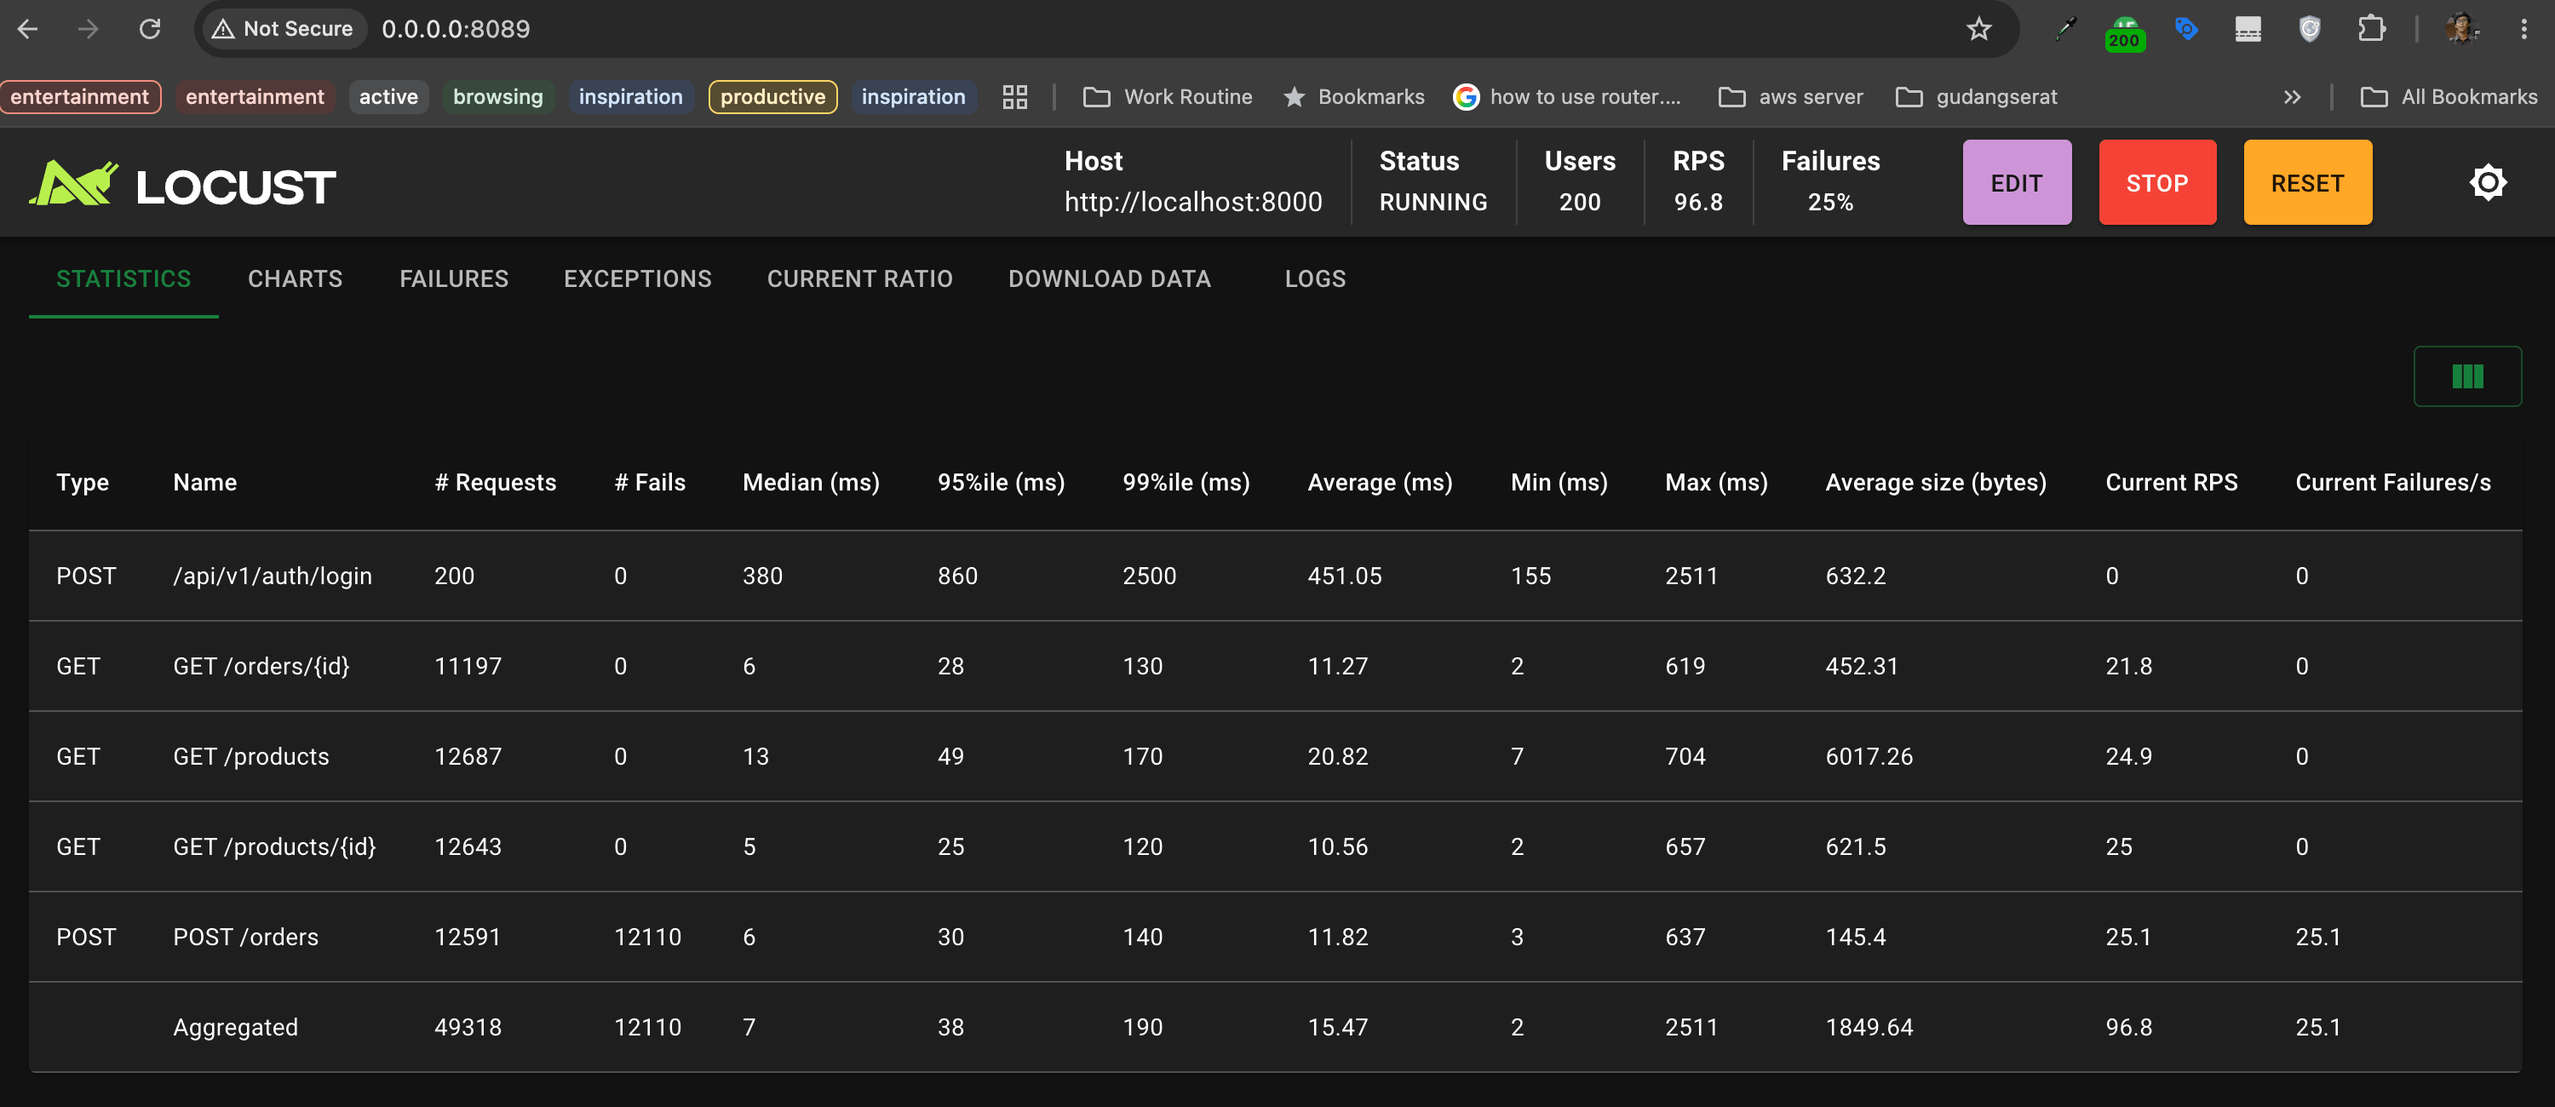
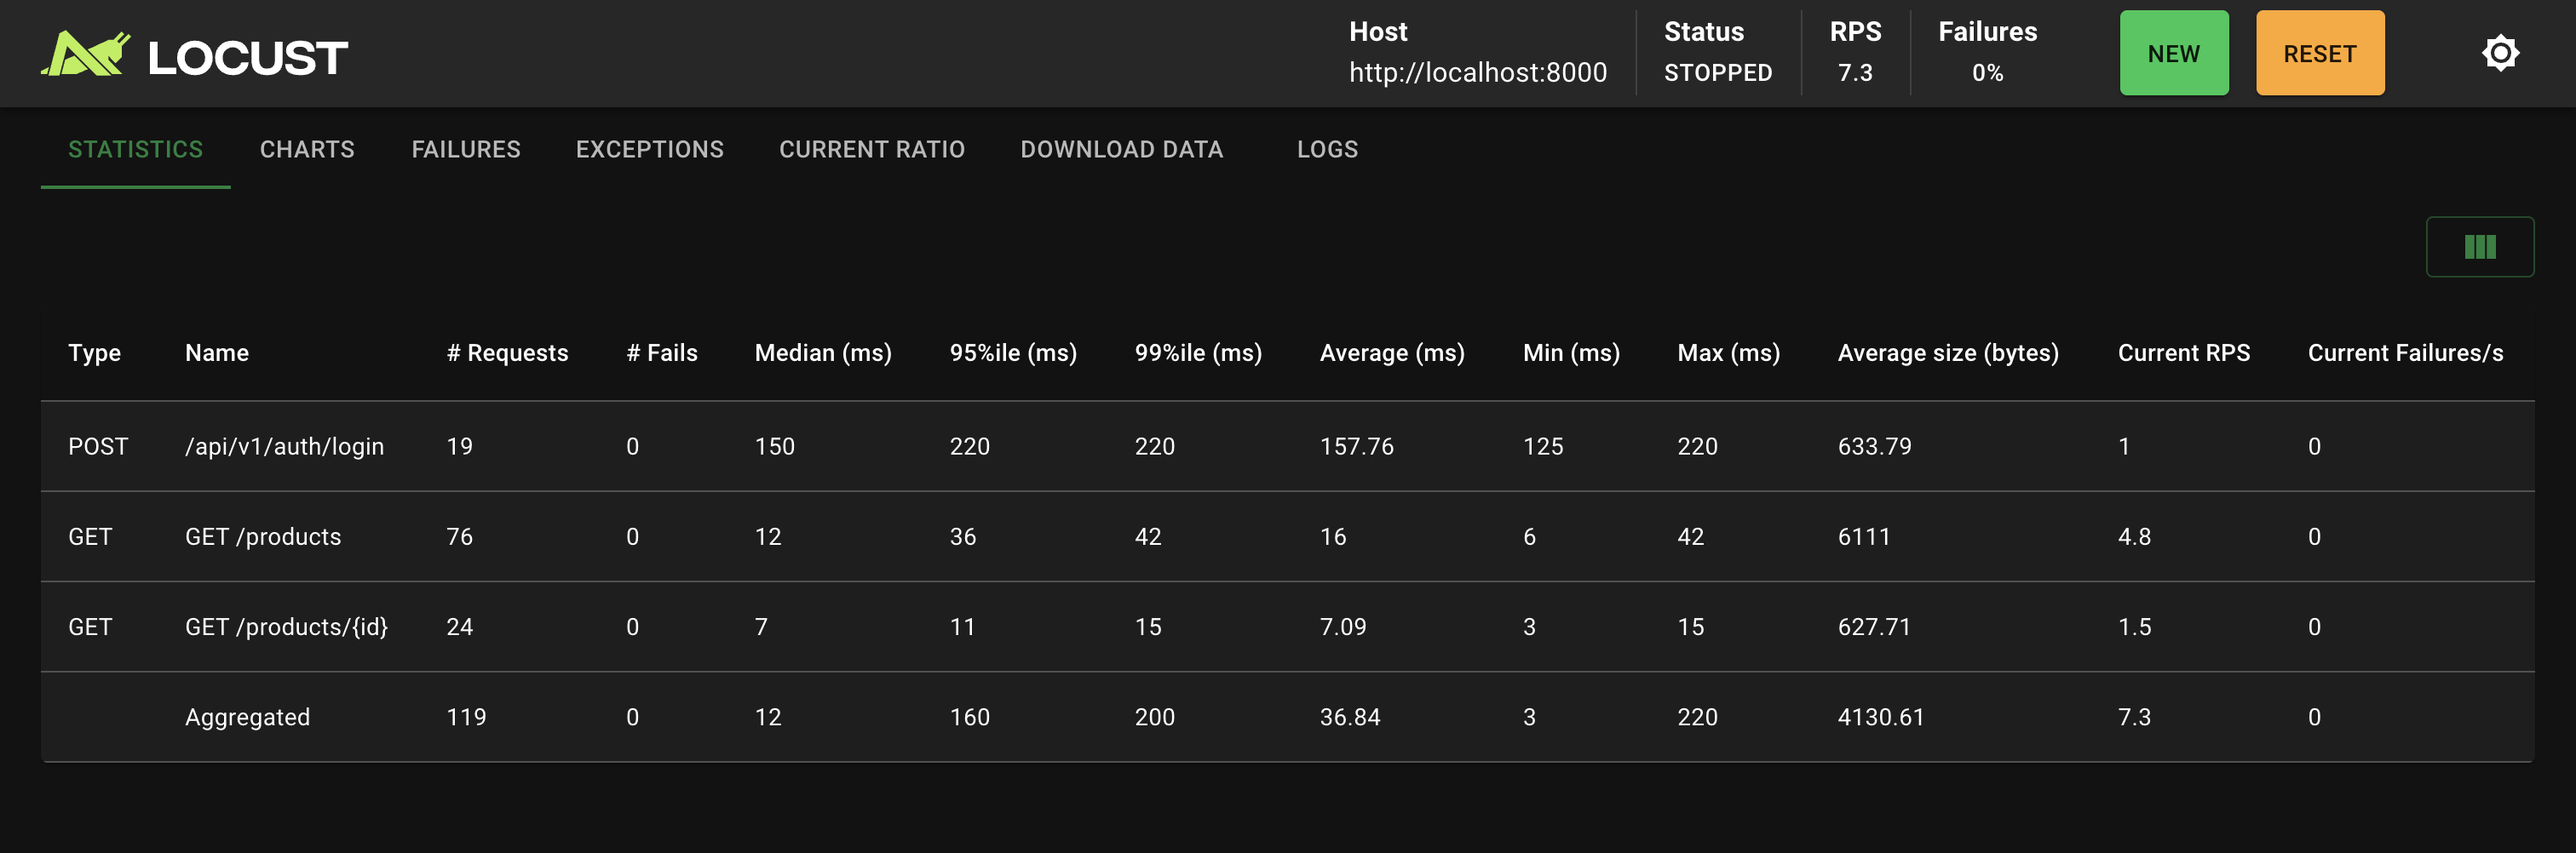
feat(end-to-end-test): update locust test run screenshots

diff --git a/README.md b/README.md
@@ -97,6 +97,7 @@ RevoShop is an intuitive e-commerce ecosystem that simplifies online transaction
 ### Users & Profiles
 - Seller cannot be soft-deleted when they have active orders with `PAID` status
 - Seller cannot order their own products
+- Privilege-escalation guard: only a superadmin can grant the `SUPERADMIN` role (admin attempts return 403)
 - Become Seller flow with guard checks (already seller, deactivated account)
 - Profile and address management
 - Default address used for payment processing
@@ -270,6 +271,8 @@ PYTHONPATH=. python seeds/initial_seed.py
 
 ## Testing
 Tests use a separate PostgreSQL database (auto-created as `{your_db_name}_test`). Your production data is never touched.
+
+**Current status:** 292 tests passing · 84% code coverage
 
 ### Unit & Integration Tests
 ```bash
